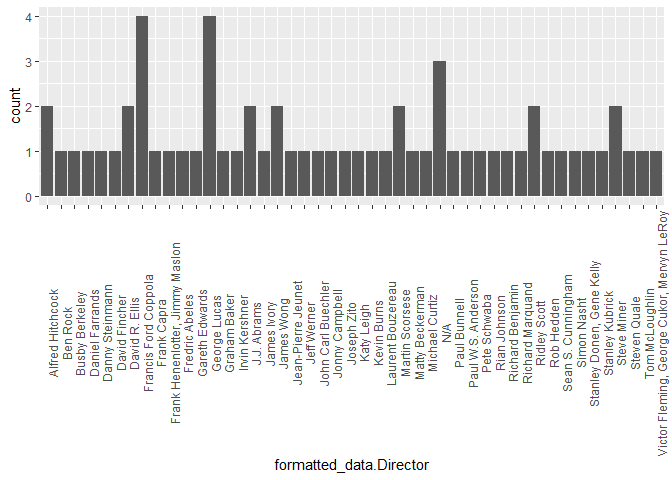
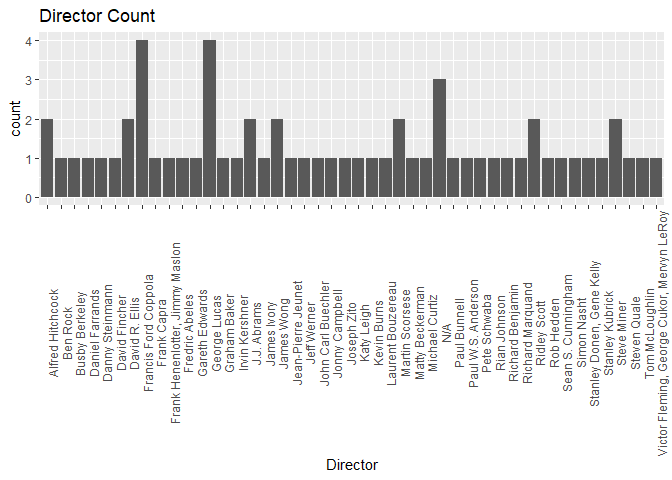
10:52_6_25_2022

diff --git a/README.md b/README.md
@@ -595,7 +595,7 @@ the movies:
 
 ``` r
 unique_titles<-length(unique(formatted_data$Title))
-unique_titles
+unique_titles #there are 61 unique movie titles in my data set
 ```
 
     ## [1] 61
@@ -610,7 +610,7 @@ table(B$formatted_data.Rated)
     ##         G       N/A Not Rated    Passed        PG     PG-13         R     TV-14 
     ##         3         8         4         1         8         9        27         1
 
-As you can see, 9 movies from my data set are “PG-13”.
+As you can see, 9 out of the 61 movies from my data set are “PG-13”.
 
 Let’s say I wanted to summarize how many movies fell under each genre
 listed. I would make the contingency table below:
@@ -643,8 +643,8 @@ table(D$formatted_data.Genre)
     ##                       Horror, Thriller             Mystery, Romance, Thriller                         Short, Fantasy 
     ##                                      7                                      1                                      1
 
-So, for example, it looks like there are 7 movies that are classified
-under the “Horror, Thriller” genre.
+So, for example, it looks like 7 out of the 61 from my data set are
+classified under the “Horror, Thriller” genre.
 
 What if we wanted to see both the rating and the genre in the same
 table? We could make a two-way contingency table:
@@ -724,38 +724,13 @@ table(B$formatted_data.Rated, D$formatted_data.Genre)
     ##   R                        7                          0              0
     ##   TV-14                    0                          0              0
 
-So, for example, it looks like 5 movies were rated PG and fell under the
-“Action, Adventure, Fantasy” genre.
+So, for example, it looks like 5 out of the 61 movies from my data set
+are rated PG and fall under the “Action, Adventure, Fantasy” genre.
 
 # Bar Plot
 
-To find all of the movies with a certian actor in it:
-
-``` r
-test<-formatted_data[grep("Mark Hamill", formatted_data$Actors), ]
-test
-```
-
-    ## # A tibble: 12 × 28
-    ##    Title    Year Rated Released   Runtime Genre Director Writer Actors Plot  Language Country Awards Poster Ratings.Source
-    ##    <chr>   <dbl> <chr> <date>       <dbl> <chr> <chr>    <chr>  <chr>  <chr> <chr>    <chr>   <chr>  <chr>  <chr>         
-    ##  1 Star W…  1977 PG    1977-05-25     121 Acti… George … Georg… Mark … Luke… English  United… Won 6… https… Internet Movi…
-    ##  2 Star W…  1977 PG    1977-05-25     121 Acti… George … Georg… Mark … Luke… English  United… Won 6… https… Rotten Tomato…
-    ##  3 Star W…  1977 PG    1977-05-25     121 Acti… George … Georg… Mark … Luke… English  United… Won 6… https… Metacritic    
-    ##  4 Star W…  1980 PG    1980-06-20     124 Acti… Irvin K… Leigh… Mark … Afte… English  United… Won 1… https… Internet Movi…
-    ##  5 Star W…  1980 PG    1980-06-20     124 Acti… Irvin K… Leigh… Mark … Afte… English  United… Won 1… https… Rotten Tomato…
-    ##  6 Star W…  1980 PG    1980-06-20     124 Acti… Irvin K… Leigh… Mark … Afte… English  United… Won 1… https… Metacritic    
-    ##  7 Star W…  1983 PG    1983-05-25     131 Acti… Richard… Lawre… Mark … Afte… English  United… Nomin… https… Internet Movi…
-    ##  8 Star W…  1983 PG    1983-05-25     131 Acti… Richard… Lawre… Mark … Afte… English  United… Nomin… https… Rotten Tomato…
-    ##  9 Star W…  1983 PG    1983-05-25     131 Acti… Richard… Lawre… Mark … Afte… English  United… Nomin… https… Metacritic    
-    ## 10 Star W…  2017 PG-13 2017-12-15     152 Acti… Rian Jo… Rian … Daisy… The … English  United… Nomin… https… Internet Movi…
-    ## 11 Star W…  2017 PG-13 2017-12-15     152 Acti… Rian Jo… Rian … Daisy… The … English  United… Nomin… https… Rotten Tomato…
-    ## 12 Star W…  2017 PG-13 2017-12-15     152 Acti… Rian Jo… Rian … Daisy… The … English  United… Nomin… https… Metacritic    
-    ## # … with 13 more variables: Ratings.Value <dbl>, Metascore <dbl>, imdbRating <dbl>, imdbVotes <dbl>, imdbID <chr>,
-    ## #   Type <chr>, DVD <date>, BoxOffice <dbl>, Production <chr>, Website <chr>, Response <chr>, Summary_Awards <fct>,
-    ## #   average_rating <dbl>
-
-Here’s the bar graph:
+Let’s say we wanted to find out how many movies each director made in my
+data set. We could make the bar graph below:
 
 ``` r
 C<-data.frame(formatted_data$Title,formatted_data$Director)
@@ -768,7 +743,8 @@ dim(D)
 ``` r
 g<-ggplot(data = D, aes(x = formatted_data.Director ))
 g + geom_bar() +
-  theme(axis.text.x = element_text(angle = 90))
+  theme(axis.text.x = element_text(angle = 90)) +
+  labs(x = "Director", title = "Director Count")
 ```
 
 ![](README_files/figure-gfm/8_18_6_24_2022-1.png)<!-- -->
